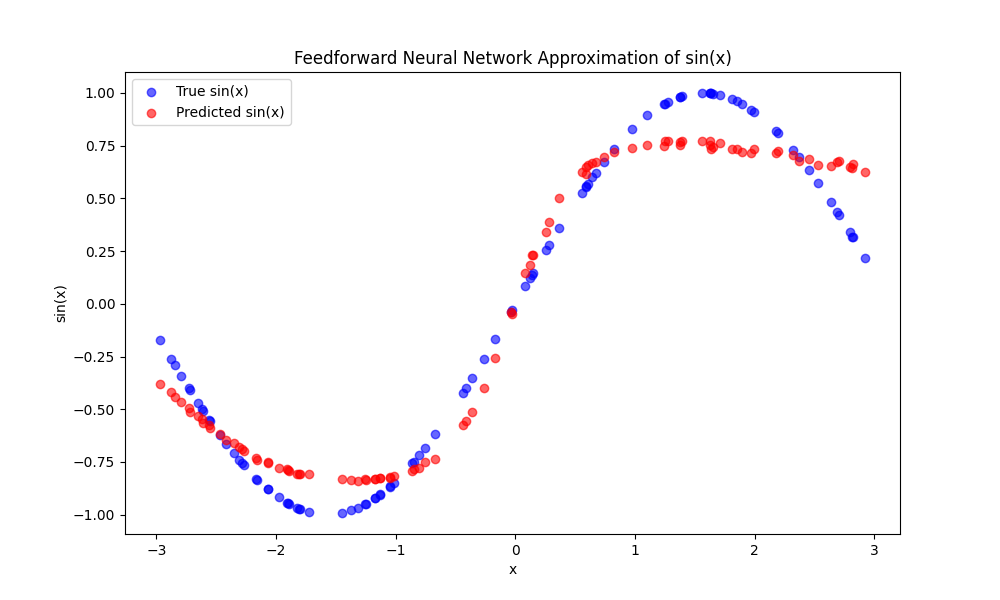
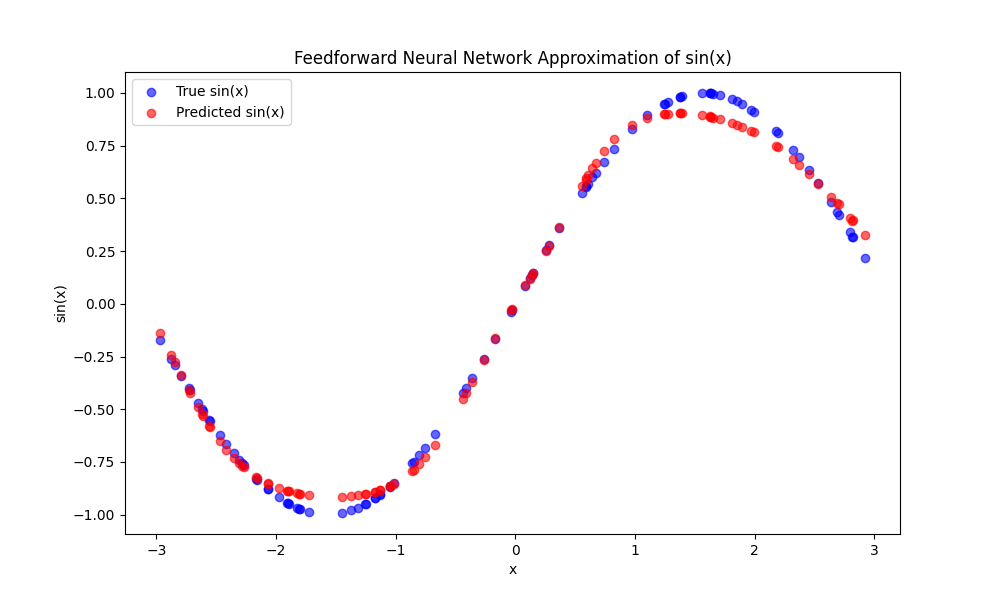
Newton's Method

diff --git a/midterm_nueralnetworks/neural_network/feed_forward_neural_network.py b/midterm_nueralnetworks/neural_network/feed_forward_neural_network.py
@@ -55,6 +55,29 @@ class FeedforwardNeuralNetwork:
             np.clip(layer.grad_weights, -1, 1, out=layer.grad_weights)
             layer.weights -= learning_rate * (layer.grad_weights + lambda_reg * layer.weights)
 
+    def newtons_method(self, learning_rate, lambda_reg=0):
+        """
+        Performs Newton's method to update weights based on the Hessian and gradient.
+
+        Parameters:
+        ----------
+        learning_rate : float
+            The learning rate to scale the weight update.
+        lambda_reg : float
+            Regularization parameter.
+        """
+        for layer in self.layers:
+            # Hessian approximation computed by the layer's own method
+            hessian_approx = layer.compute_hessian_approx(lambda_reg)
+
+            try:
+                hessian_inv = np.linalg.pinv(hessian_approx)
+            except np.linalg.LinAlgError:
+                hessian_inv = np.eye(hessian_approx.shape[0]) * lambda_reg
+
+            update_step = learning_rate * np.dot(hessian_inv, layer.grad_weights.flatten()).reshape(layer.weights.shape)
+            layer.weights += update_step
+
     def zero_grad(self):
         """
         Zero out the gradients for all layers.
@@ -62,12 +85,21 @@ class FeedforwardNeuralNetwork:
         for layer in self.layers:
             layer.grad_weights = np.zeros_like(layer.weights)
 
-    def train(self, x, y, epochs, learning_rate, loss_derivative):
+    def train(self, x, y, epochs, learning_rate, loss_derivative, method="gd"):
         """
-        Train the neural network using gradient descent.
+        Train the neural network using the specified optimization method.
+
+        Parameters:
+        ----------
+        method : str
+            The optimization method to use: "gd" for gradient descent or "newton" for Newton's method.
         """
         for epoch in range(epochs):
             for xi, yi in zip(x, y):
-                output = self.forward(xi)  # Forward pass
-                self.backward(output, yi, loss_derivative)  # Backpropagation
-                self.gd(self, learning_rate)  # Update weights using gradient descent
+                output = self.forward(xi)
+                self.backward(output, yi, loss_derivative)
+
+                if method == "gd":
+                    self.gd(learning_rate)
+                elif method == "newton":
+                    self.newtons_method(learning_rate)

diff --git a/midterm_nueralnetworks/neural_network/layer.py b/midterm_nueralnetworks/neural_network/layer.py
@@ -95,6 +95,25 @@ class Layer:
         delta_prev = np.dot(delta, self.weights[:, :-1])
 
         return delta_prev
+
+    def compute_hessian_approx(self, lambda_reg=1e-5):
+        """
+        Approximates the Hessian matrix for this layer using the outer product of the gradient.
+
+        Parameters:
+        ----------
+        lambda_reg : float
+            Small regularization term to ensure invertibility.
+
+        Returns:
+        -------
+        np.ndarray
+            The approximated Hessian matrix for this layer.
+        """
+        flattened_grad = self.grad_weights.flatten()
+        hessian_approx = np.outer(flattened_grad, flattened_grad)
+        hessian_approx += np.eye(hessian_approx.shape[0]) * lambda_reg  # Regularization
+        return hessian_approx
     
     @staticmethod
     def concat_bias(X : np.ndarray) -> np.ndarray:
